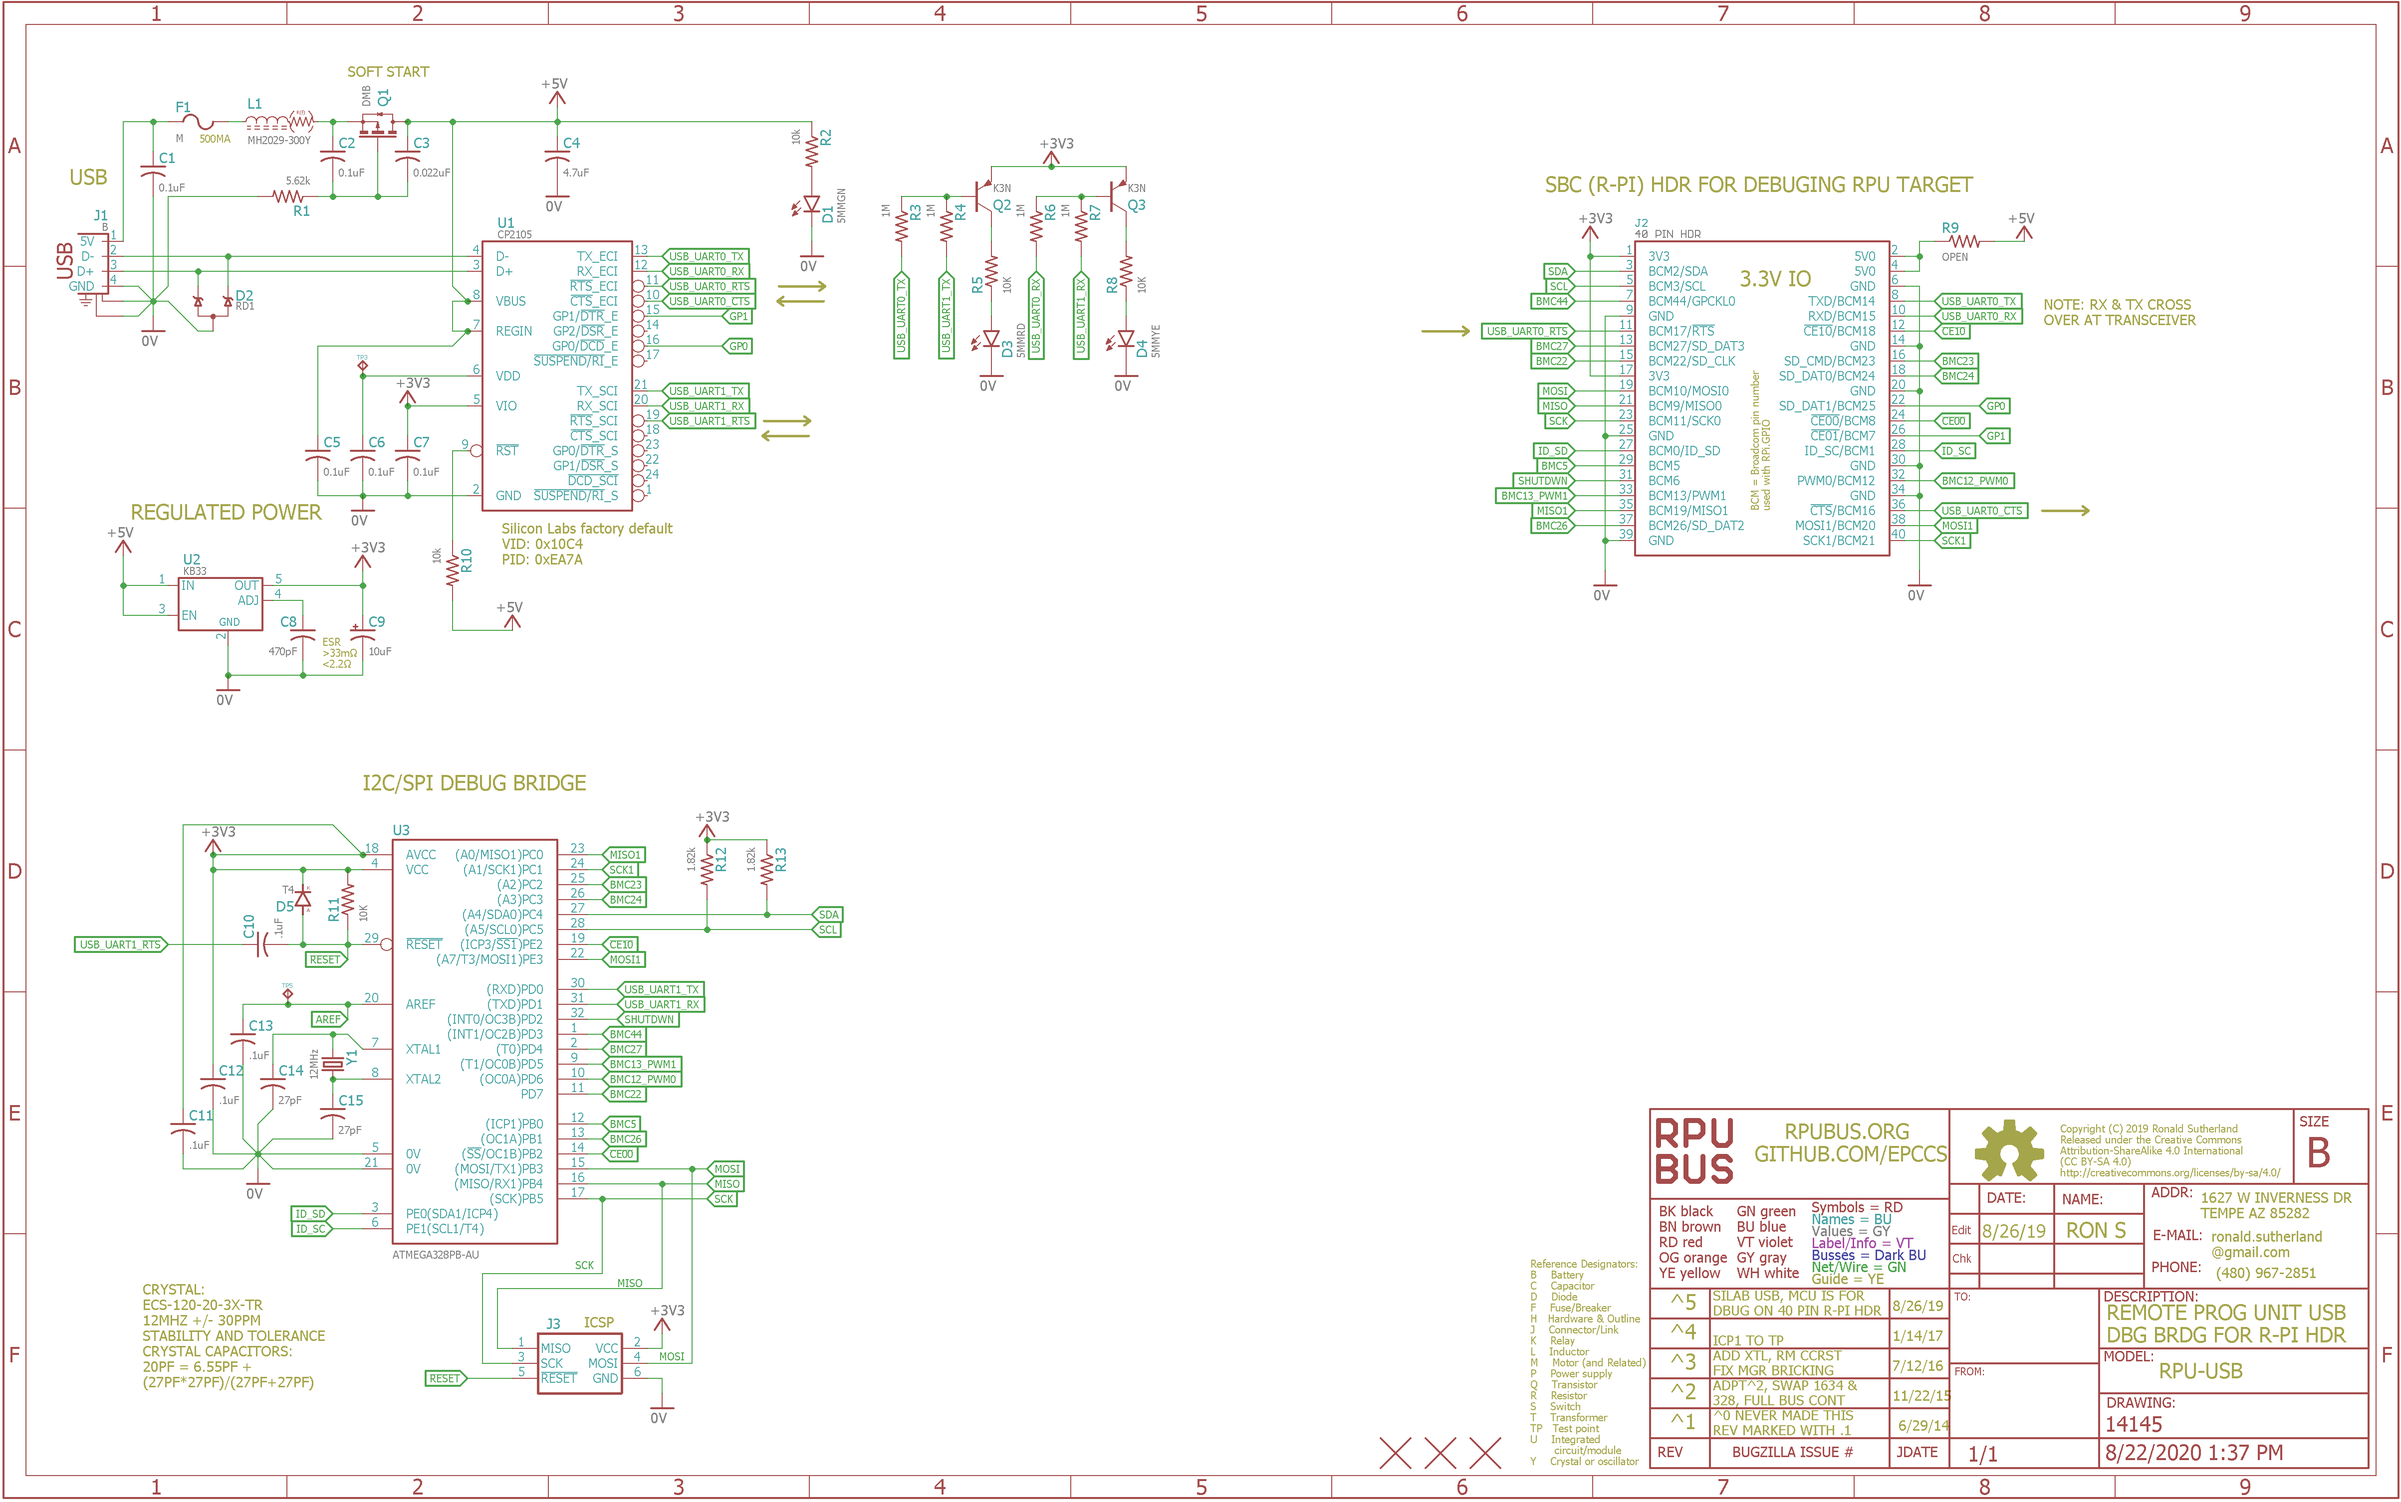
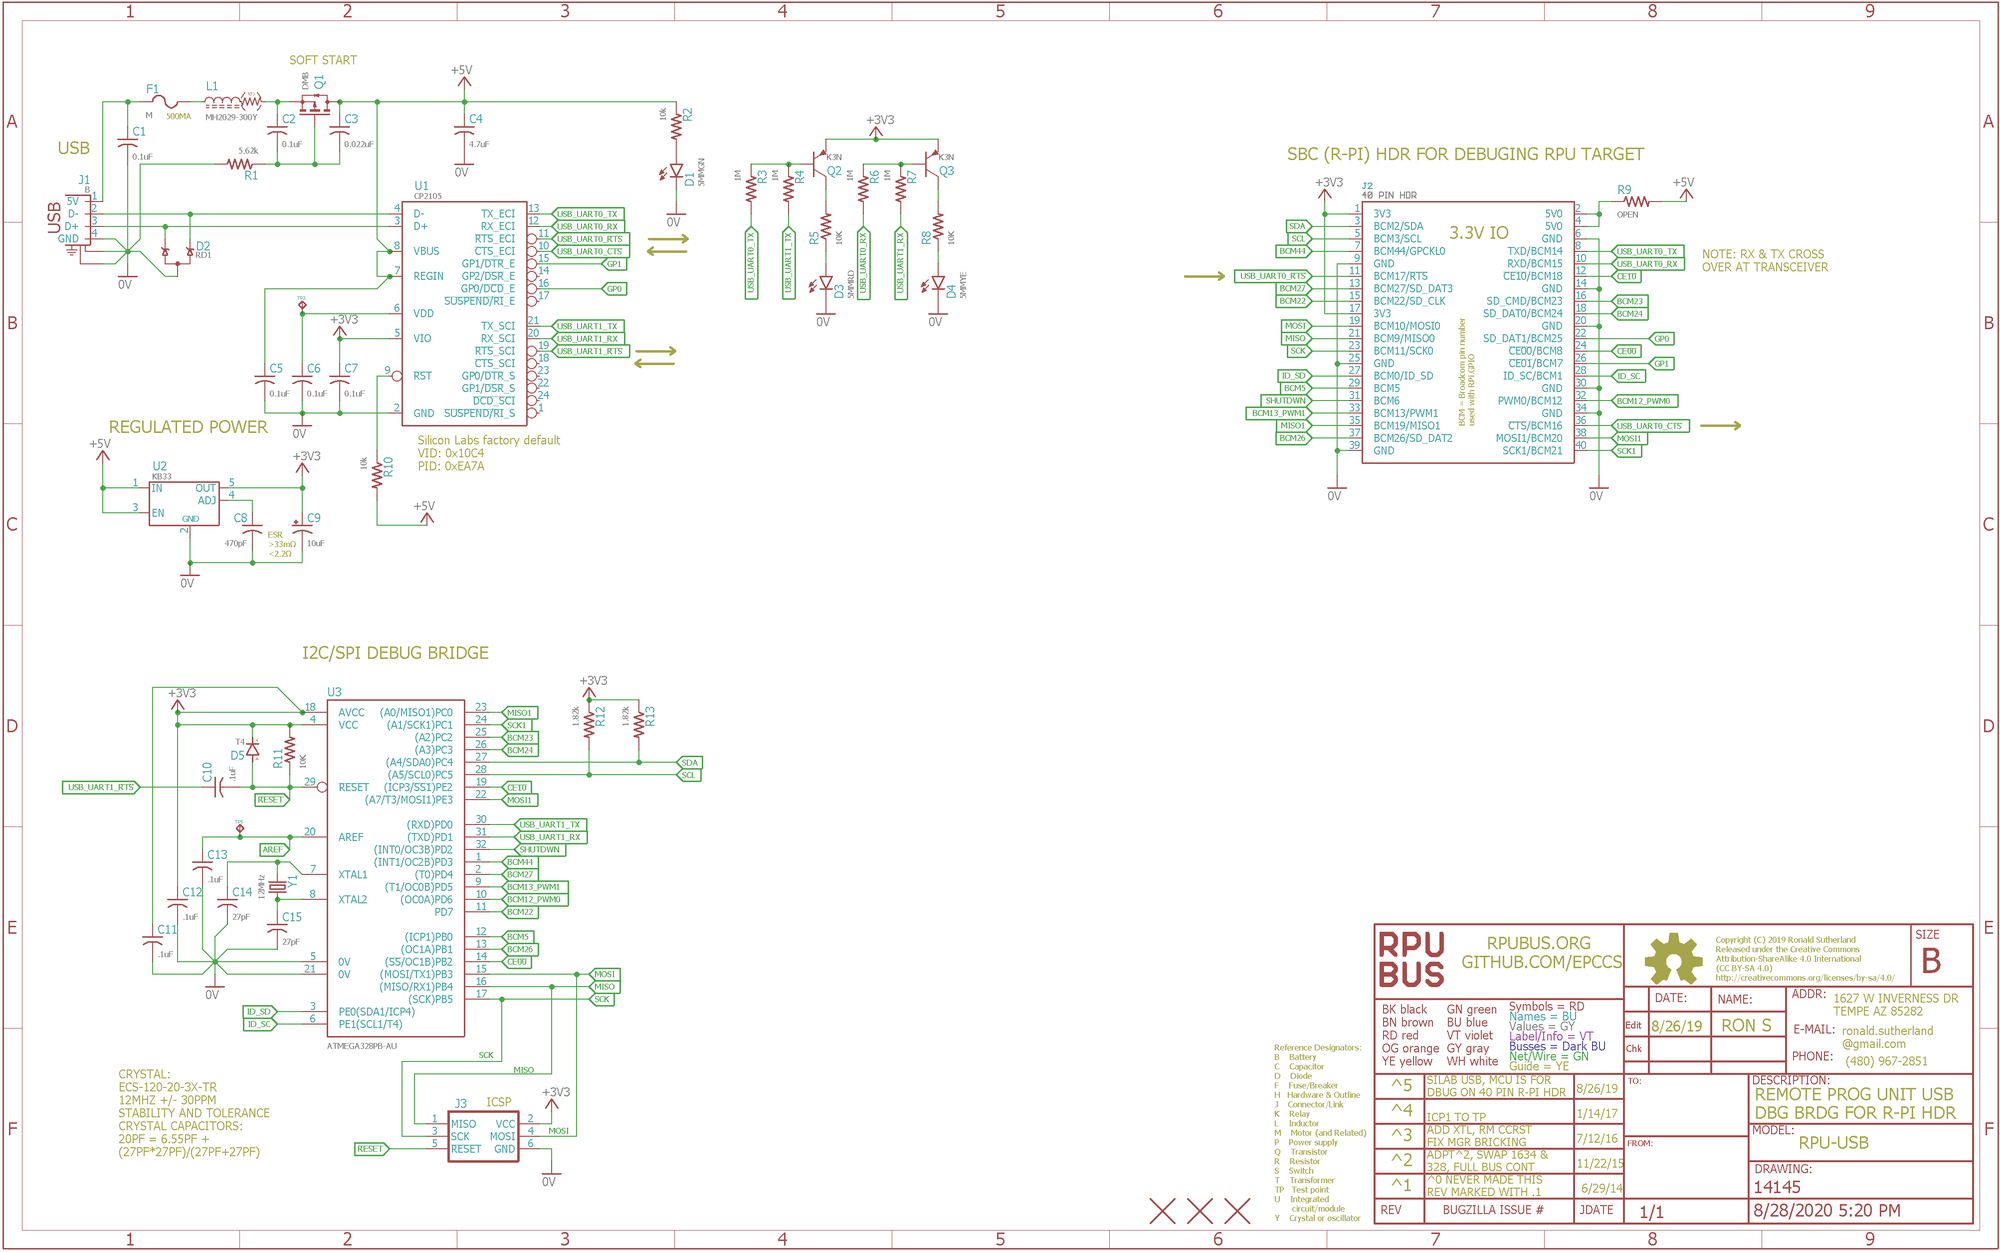
Hardware: pin names on schematic match io_enum

diff --git a/lib/io_enum_bsd.h b/lib/io_enum_bsd.h
@@ -47,28 +47,28 @@ typedef enum LOGIC_LEVEL_enum {
 typedef enum MCU_IO_enum {
     MCU_IO_MISO1,  // PC0 goes to where R-Pi MISO1 (SPI1) would be
     MCU_IO_SCK1, // PC1 goes to where R-Pi SCK1 (SPI1) would be
-    MCU_IO_BMC23, // PC2 goes to where R-Pi BMC23 would be
-    MCU_IO_BMC24, // PC3 goes to where R-Pi BMC24 would be
+    MCU_IO_BCM23, // PC2 goes to where R-Pi BCM23 would be
+    MCU_IO_BCM24, // PC3 goes to where R-Pi BCM24 would be
     MCU_IO_SDA, // PC4 goes to where R-Pi SDA (I2C0) would be
     MCU_IO_SCL, // PC5 goes to where R-Pi SCL (I2C0) would be
     MCU_IO_nCE10, // PC5 goes to where R-Pi nCE10 (SPI1) would be
     MCU_IO_MOSI1, // PE3 goes to where R-Pi MOSI1 (SPI1) would be
-    MCU_IO_BMC5, // PB0 goes to where R-Pi BMC5 would be
-    MCU_IO_BMC26, // PB1 goes to where R-Pi BMC26 would be
+    MCU_IO_BCM5, // PB0 goes to where R-Pi BCM5 would be
+    MCU_IO_BCM26, // PB1 goes to where R-Pi BCM26 would be
     MCU_IO_nCE00, // PB2 goes to where R-Pi nCE00 (SPI0) would be
     MCU_IO_MOSI,  // PB3 goes to where R-Pi MOSI (SPI0) would be
     MCU_IO_MISO, // PB4 goes to where R-Pi MISO (SPI0) would be
     MCU_IO_SCK,   // PB5 goes to where R-Pi SCK (SPI0) would be
     MCU_IO_USB_UART1_RX,   // PD0 goes to the secondary UART on CP2105.
     MCU_IO_USB_UART1_TX,   // PD1 goes to the secondary UART on CP2105.
-    MCU_IO_SHUTDOWN, // PD2 goes to where R-Pi BMC6 would be, which I use for a shutdown signal
-    MCU_IO_BMC44, // PD3 goes to where R-Pi BMC44 would be
-    MCU_IO_BMC27, // PD4 goes to where R-Pi BMC27 would be
-    MCU_IO_BMC13_PWM1, // PD5 goes to where R-Pi BMC13 (PWM1) would be
-    MCU_IO_BMC12_PWM0, // PD6 goes to where R-Pi BMC12 (PWM0) would be
-    MCU_IO_BMC22, // PD7 goes to where R-Pi BMC22 would be
-    MCU_IO_ID_SD, // PE0 goes to where R-Pi BMC0 (ID_SD) would be
-    MCU_IO_ID_SC, // PE1 goes to where R-Pi BMC1 (ID_SC) would be
+    MCU_IO_SHUTDOWN, // PD2 goes to where R-Pi BCM6 would be, which I use for a shutdown signal
+    MCU_IO_BCM44, // PD3 goes to where R-Pi BCM44 would be
+    MCU_IO_BCM27, // PD4 goes to where R-Pi BCM27 would be
+    MCU_IO_BCM13_PWM1, // PD5 goes to where R-Pi BCM13 (PWM1) would be
+    MCU_IO_BCM12_PWM0, // PD6 goes to where R-Pi BCM12 (PWM0) would be
+    MCU_IO_BCM22, // PD7 goes to where R-Pi BCM22 would be
+    MCU_IO_ID_SD, // PE0 goes to where R-Pi BCM0 (ID_SD) would be
+    MCU_IO_ID_SC, // PE1 goes to where R-Pi BCM1 (ID_SC) would be
     MCU_IO_END // enum starts at zero, this is one past end of list for use as array size
 } MCU_IO_t;
 
@@ -88,14 +88,14 @@ const static struct IO_Map ioMap[MCU_IO_END] =
 {
     [MCU_IO_MISO1] = { .ddr=&DDRC, .in=&PINC, .port=&PORTC, .mask= 1<<PC0 },
     [MCU_IO_SCK1] = { .ddr=&DDRC, .in=&PINC, .port=&PORTC, .mask= 1<<PC1 },
-    [MCU_IO_BMC23] = { .ddr=&DDRC, .in=&PINC, .port=&PORTC, .mask= 1<<PC2 },
-    [MCU_IO_BMC24] = { .ddr=&DDRC, .in=&PINC, .port=&PORTC, .mask= 1<<PC3 },
+    [MCU_IO_BCM23] = { .ddr=&DDRC, .in=&PINC, .port=&PORTC, .mask= 1<<PC2 },
+    [MCU_IO_BCM24] = { .ddr=&DDRC, .in=&PINC, .port=&PORTC, .mask= 1<<PC3 },
     [MCU_IO_SDA] = { .ddr=&DDRC, .in=&PINC, .port=&PORTC, .mask= 1<<PC4 },
     [MCU_IO_SCL] = { .ddr=&DDRC, .in=&PINC, .port=&PORTC, .mask= 1<<PC5 },
     [MCU_IO_nCE10] = { .ddr=&DDRE, .in=&PINE, .port=&PORTE, .mask= 1<<PE2 },
     [MCU_IO_MOSI1] = { .ddr=&DDRE, .in=&PINE, .port=&PORTE, .mask= 1<<PE3 },
-    [MCU_IO_BMC5] = { .ddr=&DDRB, .in=&PINB, .port=&PORTB, .mask= 1<<PB0 }, 
-    [MCU_IO_BMC26] = { .ddr=&DDRB, .in=&PINB, .port=&PORTB, .mask= 1<<PB1 },
+    [MCU_IO_BCM5] = { .ddr=&DDRB, .in=&PINB, .port=&PORTB, .mask= 1<<PB0 }, 
+    [MCU_IO_BCM26] = { .ddr=&DDRB, .in=&PINB, .port=&PORTB, .mask= 1<<PB1 },
     [MCU_IO_nCE00] = { .ddr=&DDRB, .in=&PINB, .port=&PORTB, .mask= 1<<PB2 },
     [MCU_IO_MOSI] = { .ddr=&DDRB, .in=&PINB, .port=&PORTB, .mask= 1<<PB3 },
     [MCU_IO_MISO] = { .ddr=&DDRB, .in=&PINB, .port=&PORTB, .mask= 1<<PB4 },
@@ -103,11 +103,11 @@ const static struct IO_Map ioMap[MCU_IO_END] =
     [MCU_IO_USB_UART1_RX] = { .ddr=&DDRD, .in=&PIND, .port=&PORTD, .mask= 1<<PD0 },
     [MCU_IO_USB_UART1_TX] = { .ddr=&DDRD, .in=&PIND, .port=&PORTD, .mask= 1<<PD1 },
     [MCU_IO_SHUTDOWN] = { .ddr=&DDRD, .in=&PIND, .port=&PORTD, .mask= 1<<PD2 },
-    [MCU_IO_BMC44] = { .ddr=&DDRD, .in=&PIND, .port=&PORTD, .mask= 1<<PD3 },
-    [MCU_IO_BMC27] = { .ddr=&DDRD, .in=&PIND, .port=&PORTD, .mask= 1<<PD4 },
-    [MCU_IO_BMC13_PWM1] = { .ddr=&DDRD, .in=&PIND, .port=&PORTD, .mask= 1<<PD5 },
-    [MCU_IO_BMC12_PWM0] = { .ddr=&DDRD, .in=&PIND, .port=&PORTD, .mask= 1<<PD6 },
-    [MCU_IO_BMC22] = { .ddr=&DDRD, .in=&PIND, .port=&PORTD, .mask= 1<<PD7 },
+    [MCU_IO_BCM44] = { .ddr=&DDRD, .in=&PIND, .port=&PORTD, .mask= 1<<PD3 },
+    [MCU_IO_BCM27] = { .ddr=&DDRD, .in=&PIND, .port=&PORTD, .mask= 1<<PD4 },
+    [MCU_IO_BCM13_PWM1] = { .ddr=&DDRD, .in=&PIND, .port=&PORTD, .mask= 1<<PD5 },
+    [MCU_IO_BCM12_PWM0] = { .ddr=&DDRD, .in=&PIND, .port=&PORTD, .mask= 1<<PD6 },
+    [MCU_IO_BCM22] = { .ddr=&DDRD, .in=&PIND, .port=&PORTD, .mask= 1<<PD7 },
     [MCU_IO_ID_SD] = { .ddr=&DDRE, .in=&PINE, .port=&PORTE, .mask= 1<<PE0 },
     [MCU_IO_ID_SC] = { .ddr=&DDRE, .in=&PINE, .port=&PORTE, .mask= 1<<PE1 }
 };

diff --git a/i2c-debug/README.md b/i2c-debug/README.md
@@ -9,13 +9,12 @@ The peripheral control software provides interrupt-driven asynchronous I2C funct
 
 ## Firmware Upload 
 
-
 Use the secondary serial port connection (see BOOTLOAD_PORT in Makefile) to reset the MCU and execute optiboot so that the 'make bootload' rule can upload a new binary image in the application area of flash memory. The bootloader runs at 38.4kbps.
 
 ``` 
 sudo apt-get install make git picocom gcc-avr binutils-avr gdb-avr avr-libc avrdude
-git clone https://github.com/epccs/Gravimetric/
-cd /Gravimetric/Applications/i2c-debug
+git clone https://github.com/epccs/RPUusb/
+cd /RPUusb/Applications/i2c-debug
 make all
 ...
 avr-objcopy -j .text -j .data -O ihex i2c-debug.elf i2c-debug.hex

diff --git a/BlinkLED/README.md b/BlinkLED/README.md
@@ -12,8 +12,8 @@ Use the secondary serial port connection (see BOOTLOAD_PORT in Makefile) to rese
 
 ``` 
 sudo apt-get install make git picocom gcc-avr binutils-avr gdb-avr avr-libc avrdude
-git clone https://github.com/epccs/Gravimetric/
-cd /Gravimetric/Applications/BlinkLED
+git clone https://github.com/epccs/RPUusb/
+cd /RPUusb/Applications/BlinkLED
 make all
 ...
 avr-objcopy -j .text -j .data -O ihex blinkLED.elf blinkLED.hex
